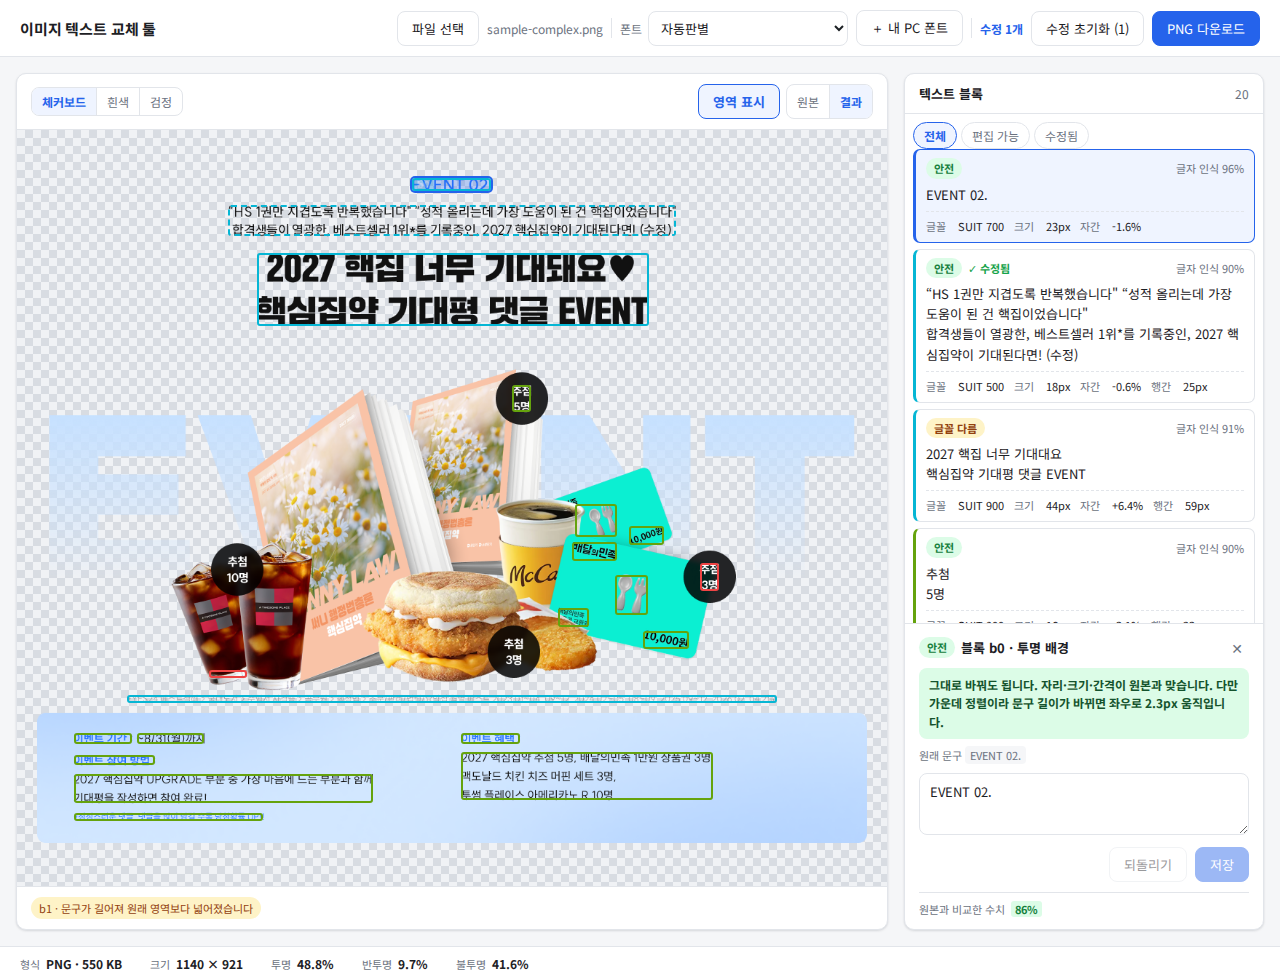
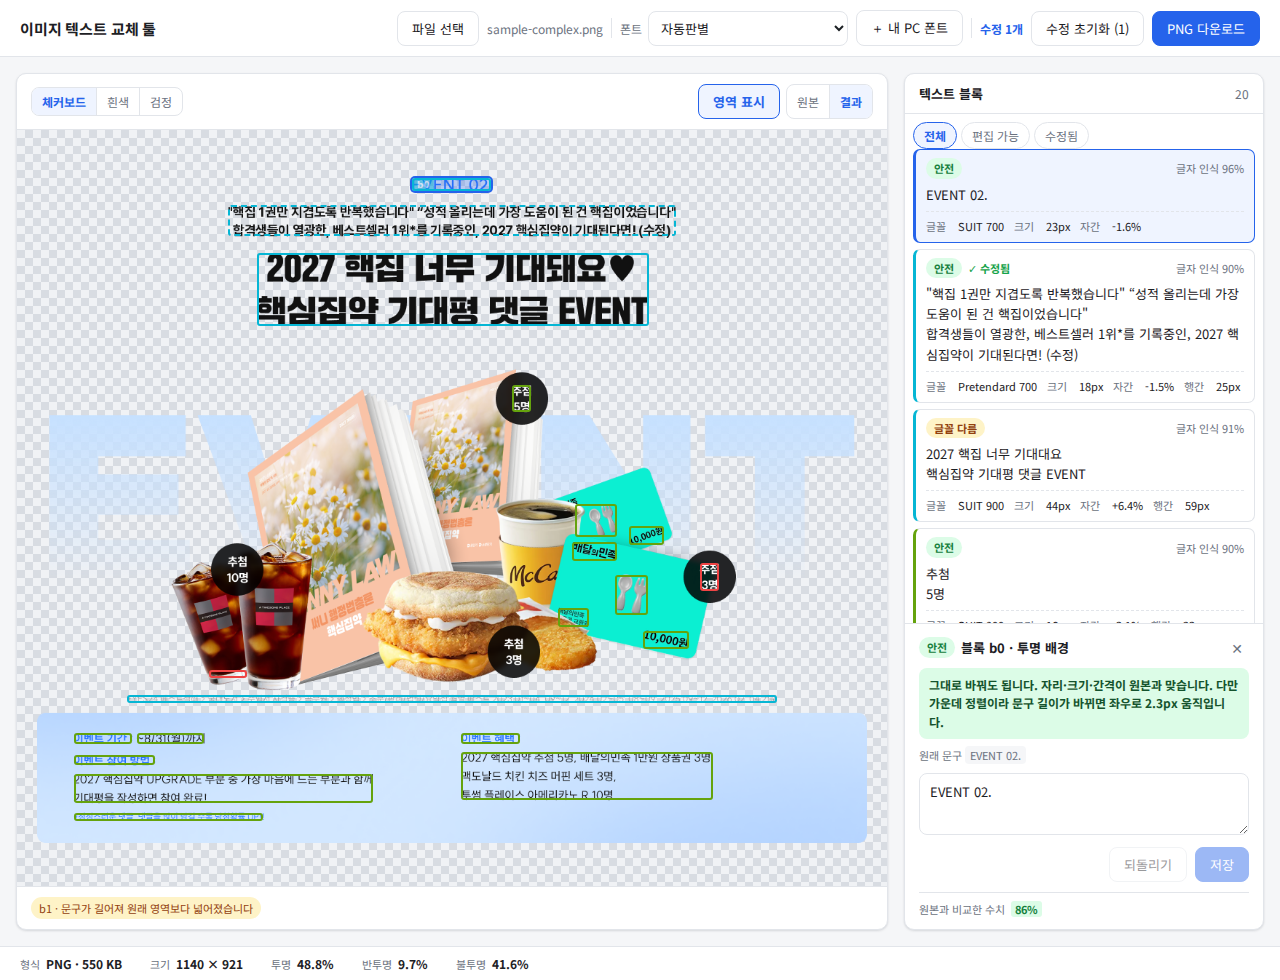
feat: OCR 인식률 — 한글↔라틴 교정, 그림 블록 걸러내기
제보 둘: 포크·수저 아이콘을 글자로 읽어 쓰레기를 뱉는다 / `핵집` 을 `HS` 로
읽는다. 정답을 손으로 적어 두고(11블록) 글자 단위 정확도로 재며 실험했다.

먼저 안 되는 것을 확인했다
- 전처리는 현재가 최적. 96px 94.6%, 128px 96.3%, 이진화 96.3~96.5% 로 전부
  현재(97.3%)보다 나빴다. 그래서 전처리는 건드리지 않았다
- kor 단독은 한글을 맞히지만 영문을 다 깨뜨린다 (EVENT→ㄷ66411)
- 낱말 신뢰도로 고르는 것도 안 된다. 정답 `핵` 이 21%, 오답 `“HS` 가 62% 다.
  신뢰도가 정답 쪽을 가리키지 않는다

되는 것 (js/ocr.js)
- 한글이 섞인 블록에서 유독 신뢰도가 낮은 라틴 낱말만 골라, 같은 자리를 kor
  단독으로 읽어 **완성형 한글이 나올 때만** 갈아끼운다. 이 두 번째 조건이
  핵심이다 — 정답인 `UP!`(신뢰도 16)은 kor 이 `1ㅁ!!` 를 내놓아 걸러진다
- 겹침은 '한국어 낱말이 의심 구간 안에 드는가'로 본다. 의심 낱말 폭 기준이면
  `“HS` 자리에서 `핵` 만 잡히고 `집` 이 빠진다
- 낱말을 다시 잇지 않고 원문에서 그 낱말만 치환한다. 이으면 띄어쓰기가 깨진다

  b1  “HS 1권만…        → “핵집 1권만…
  b18 2027 BYU UPGRADE… → 2027 핵심집약 UPGRADE… (100%)
  평균 97.3% → 98.3% · OCR 3.2s → 4.8s

그림 걸러내기 (js/ocr.js, js/app.js)
- 획 굵기 분포(가로 런 90분위/중앙값)를 잰다. 글자는 가는 세로획과 긴 가로획이
  섞여 비가 크고, 아이콘은 통짜라 작다. 실측 아이콘 1.7·1.8 vs 글자 2.3~4.3
- 신뢰도 낮고 한글 없음 / 획 비 낮고 신뢰도 낮음 → `글자 아님` 표시,
  '편집 가능' 목록에서 제외. 지우지는 않는다
- 쓰레기 5블록을 다 잡고 진짜 글자는 하나도 안 잡는다

검증: typo-probe 33항목(OCR 4항목 신설), compose 18, edit 32 전부 통과.

Claude-Session: https://claude.ai/code/session_018kgwYgKVhZt5kDDopb9ULA

Changed region(s): [[0.1875, 0.1837, 0.5312, 0.2449], [0.7188, 0.2755, 0.9688, 0.3061], [0.75, 0.3673, 0.9688, 0.398]]

diff --git a/js/ocr.js b/js/ocr.js
@@ -38,7 +38,9 @@ const OCR = (() => {
    * 배경 유형과 무관하게 '흰 바탕에 검은 글자'로 정규화한다.
    * 투명 PNG를 그대로 넣으면 투명 픽셀이 검정으로 읽혀 흰 글자가 사라진다.
    */
-  function preprocess(img, block) {
+  function preprocess(img, block, opts = {}) {
+    const targetH = opts.targetH || TARGET_H;
+    const binarize = !!opts.binarize;
     const {x0, y0, x1, y1} = block.bbox;
     const bw = x1 - x0, bh = y1 - y0;
     const d = img.data, W = img.width;
@@ -72,7 +74,7 @@ const OCR = (() => {
     const lineH = block.lines.length
       ? block.lines.reduce((s, l) => s + (l.bbox.y1 - l.bbox.y0), 0) / block.lines.length
       : bh;
-    const scale = Math.min(MAX_SCALE, Math.max(1, TARGET_H / lineH));
+    const scale = Math.min(MAX_SCALE, Math.max(1, targetH / lineH));
 
     const src = document.createElement('canvas');
     src.width = bw; src.height = bh;
@@ -86,7 +88,147 @@ const OCR = (() => {
     ctx.fillRect(0, 0, out.width, out.height);
     ctx.imageSmoothingQuality = 'high';
     ctx.drawImage(src, PAD, PAD, Math.round(bw * scale), Math.round(bh * scale));
+
+    // 확대하면 글자 가장자리가 회색으로 번진다. 이진화하면 경계가 또렷해지지만
+    // 가는 획이 끊길 수 있다. 어느 쪽이 나은지는 실측으로 정한다(부록 P).
+    if (binarize) {
+      const im = ctx.getImageData(0, 0, out.width, out.height);
+      const q = im.data;
+      let sum = 0, n = 0;
+      for (let i = 0; i < q.length; i += 4) { sum += q[i]; n++; }
+      const t = sum / n;                       // 평균 밝기를 문턱으로
+      for (let i = 0; i < q.length; i += 4) {
+        const v = q[i] < t ? 0 : 255;
+        q[i] = q[i + 1] = q[i + 2] = v;
+      }
+      ctx.putImageData(im, 0, 0);
+    }
     return out;
+  }
+
+  /* ---------- 한글↔라틴 혼동 교정 (v1.8) ----------
+   *
+   * `kor+eng` 는 한글을 라틴 글자로 잘못 읽는 일이 잦다. 실측(샘플 B):
+   *   핵집 → “HS,  핵심집약 → BYU
+   * `kor` 단독으로 읽으면 둘 다 맞는다. 그런데 `kor` 단독을 기본으로 삼을 수는
+   * 없다 — `EVENT` → `ㄷ66411`, `UPGRADE` → `1『<ㅅ^` 로 영문이 전부 깨진다.
+   *
+   * 낱말 신뢰도로 고르는 것도 안 된다. 정답인 `핵`이 21%, 오답인 `“HS`가 62% 로
+   * **신뢰도가 정답 쪽을 가리키지 않는다.**
+   *
+   * 두 가지를 함께 본다.
+   *   1. 한글이 섞인 블록에서, 그 라틴 낱말만 유독 신뢰도가 낮은가
+   *   2. 같은 자리를 한국어 전용으로 읽었을 때 **완성형 한글**이 나오는가
+   *
+   * 2가 핵심이다. 실측에서 정답인 `UP!`(신뢰도 16)도 1에는 걸리지만, 한국어
+   * 전용이 내놓는 것이 `1ㅁ!!` 라 완성형 한글이 아니어서 걸러진다. 반대로
+   * `“HS`·`BYU` 는 `“핵집`·`핵심집약` 이 나와 갈아탄다.
+   */
+  const HANGUL = /[가-힣]/;
+  const CONF_DROP = 20;   // 한글 낱말 중앙값보다 이만큼 낮으면 의심한다
+  const MIN_HANGUL_PCT = 30;
+
+  let korWorker = null;
+  async function korOnly() {
+    if (korWorker) return korWorker;
+    korWorker = await Tesseract.createWorker(['kor'], 1, {
+      workerPath: BASE + 'worker.min.js', corePath: BASE,
+      langPath: BASE + 'lang', gzip: false,
+    });
+    await korWorker.setParameters({
+      tessedit_pageseg_mode: '6', preserve_interword_spaces: '1',
+    });
+    return korWorker;
+  }
+
+  /** 인식 결과에서 줄 구조를 유지한 채 낱말을 꺼낸다. */
+  function linesOf(data) {
+    const out = [];
+    const dig = (o) => {
+      if (!o) return;
+      if (Array.isArray(o.words) && o.words.length) {
+        const ws = o.words.filter((x) => (x.text || '').trim()).map((x) => ({
+          t: x.text.trim(), c: x.confidence,
+          x0: x.bbox.x0, x1: x.bbox.x1, y0: x.bbox.y0, y1: x.bbox.y1,
+        }));
+        if (ws.length) out.push(ws);
+      }
+      for (const k of ['blocks', 'paragraphs', 'lines']) {
+        if (Array.isArray(o[k])) o[k].forEach(dig);
+      }
+    };
+    (data.blocks || []).forEach(dig);
+    return out;
+  }
+
+  const median = (a) => a.length ? [...a].sort((x, y) => x - y)[a.length >> 1] : null;
+
+  /**
+   * 획 굵기 분포 — 글자인지 그림인지 가르는 단서.
+   *
+   * 글자는 가는 세로획과 긴 가로획이 섞여 있어 가로 런 길이의 90분위가 중앙값의
+   * 여러 배다. 포크·수저 같은 아이콘은 통짜라 런 길이가 고르다.
+   * 실측(샘플 B): 아이콘 1.7·1.8 vs 글자 2.3~4.3.
+   */
+  function strokeRatio(canvas) {
+    const g = canvas.getContext('2d', {willReadFrequently: true});
+    const d = g.getImageData(0, 0, canvas.width, canvas.height).data;
+    const W = canvas.width, H = canvas.height;
+    const runs = [];
+    for (let y = 0; y < H; y++) {
+      let n = 0;
+      for (let x = 0; x < W; x++) {
+        if (d[(y * W + x) * 4] < 128) n++;
+        else { if (n) runs.push(n); n = 0; }
+      }
+      if (n) runs.push(n);
+    }
+    if (runs.length < 8) return null;
+    runs.sort((a, b) => a - b);
+    const med = runs[runs.length >> 1] || 1;
+    return runs[Math.floor(runs.length * 0.9)] / med;
+  }
+
+  /**
+   * 라틴으로 잘못 읽힌 한글 낱말을 한국어 전용 결과로 갈아끼운다.
+   * @returns {text, fixed[]} — 고친 낱말 목록(검증용)
+   */
+  async function fixLatin(canvas, lines) {
+    const all = lines.flat();
+    const joined = all.map((w) => w.t).join('');
+    const chars = joined.replace(/\s/g, '').length;
+    if (!chars) return null;
+    const hangulPct = (joined.match(/[가-힣]/g) || []).length / chars * 100;
+    if (hangulPct < MIN_HANGUL_PCT) return null;      // 영문 블록은 건드리지 않는다
+
+    const med = median(all.filter((w) => HANGUL.test(w.t)).map((w) => w.c));
+    if (med === null) return null;
+    const suspect = all.filter((w) =>
+      /[A-Za-z]/.test(w.t) && !HANGUL.test(w.t) && w.c < med - CONF_DROP);
+    if (!suspect.length) return null;
+
+    const w = await korOnly();
+    const kr = await w.recognize(canvas, {}, {blocks: true, text: true});
+    const kw = linesOf(kr.data).flat();
+
+    // 낱말을 다시 이어 붙이면 띄어쓰기가 깨진다. 한국어는 한 음절이 한 낱말로
+    // 잘리는 일이 흔해, 낱말 사이를 공백으로 메우면 `핵 1 권 만` 이 된다.
+    // 그래서 **원문 문자열에서 그 낱말만 바꿔 끼운다.**
+    const fixed = [];
+    for (const a of suspect) {
+      // '한국어 낱말이 의심 구간 안에 들어오는가' 로 본다. 의심 낱말 폭의 절반을
+      // 기준으로 삼으면 `“HS` 자리에서 `핵` 하나만 잡히고 `집` 이 빠진다 — 한국어
+      // 쪽은 한 음절씩 잘리는 일이 흔해 낱말 하나하나가 훨씬 짧기 때문이다.
+      const ov = kw.filter((z) =>
+        Math.min(a.x1, z.x1) - Math.max(a.x0, z.x0) > (z.x1 - z.x0) * 0.5 &&
+        Math.min(a.y1, z.y1) - Math.max(a.y0, z.y0) > (z.y1 - z.y0) * 0.5);
+      if (!ov.length) continue;
+      const t = ov.sort((m, n) => m.x0 - n.x0).map((z) => z.t).join('');
+      // 완성형 한글이 나올 때만 믿는다. 낱자모(ㅁ)·기호만 나오면 그냥 노이즈다.
+      if (!HANGUL.test(t) || t === a.t) continue;
+      fixed.push({from: a.t, to: t});
+    }
+    return fixed.length ? {fixed} : null;
   }
 
   /** 블록 하나를 인식한다. 실패하면 빈 문자열을 돌려주고 예외를 던지지 않는다. */
@@ -97,9 +239,21 @@ const OCR = (() => {
       preserve_interword_spaces: '1',
     });
     try {
-      const {data} = await worker.recognize(canvas);
+      const {data} = await worker.recognize(canvas, {}, {blocks: true, text: true});
       const text = (data.text || '').replace(/\s*\n\s*/g, '\n').trim();
-      return {text, confidence: data.confidence ?? 0};
+      let fix = null;
+      try { fix = await fixLatin(canvas, linesOf(data)); }
+      catch (e) { /* 교정은 보조다. 실패해도 1차 결과를 쓴다 */ }
+      let out = text;
+      for (const f of (fix ? fix.fixed : [])) {
+        const i = out.indexOf(f.from);
+        if (i >= 0) out = out.slice(0, i) + f.to + out.slice(i + f.from.length);
+      }
+      return {
+        text: out, confidence: data.confidence ?? 0,
+        strokeRatio: strokeRatio(canvas),
+        fixedWords: (fix ? fix.fixed : []).map((f) => `${f.from} → ${f.to}`),
+      };
     } catch (e) {
       return {text: '', confidence: 0, error: String(e)};
     }
@@ -107,6 +261,7 @@ const OCR = (() => {
 
   async function terminate() {
     if (worker) { await worker.terminate(); worker = null; booting = null; }
+    if (korWorker) { await korWorker.terminate(); korWorker = null; }
   }
 
   // 검증 도구가 PSM 을 바꿔 가며 비교할 수 있게 원시 인식도 노출한다.

diff --git a/js/app.js b/js/app.js
@@ -154,6 +154,8 @@ async function runAnalysis() {
       b.draft = r.text;           // 편집 중인 값
       b.dirty = false;
       b.confidence = r.confidence;
+      b.fixedWords = r.fixedWords || [];
+      b.strokeRatio = r.strokeRatio;
       if (b.id === state.selectedId) renderEditor();
       renderBlockList();
     }
@@ -297,7 +299,9 @@ function renderBlockList() {
 const byId = (id) => state.blocks.find((b) => b.id === id);
 const isUnsaved = (b) => (b.draft ?? '') !== (b.editedText ?? '');
 const visibleBlocks = () => state.blocks.filter((b) => {
-  if (state.filter === 'editable') return !b.locked;
+  // '편집 가능'에서는 그림으로 보이는 블록도 뺀다. 목록을 훑는 목적이
+  // '고칠 것 찾기'이므로 고칠 게 아닌 것은 빠져야 한다.
+  if (state.filter === 'editable') return !b.locked && !looksNotText(b);
   if (state.filter === 'dirty') return b.dirty || isUnsaved(b);
   return true;
 });
@@ -580,10 +584,33 @@ const fmtTrack = (t) => `${t.pct >= 0 ? '+' : ''}${t.pct.toFixed(1)}%`;
  * 뒤로 뺀다. 판정 기준은 계측 항목 중 **고칠 수 없는 것**을 먼저 본다:
  * 자리·크기·간격이 어긋나면 어떤 폰트를 골라도 티가 난다.
  */
+/**
+ * 글자가 아니라 그림일 가능성이 높은가.
+ *
+ * 단색 패치(선물카드·배지) 안의 포크·수저 아이콘이 '배경이 아닌 픽셀'이라 글자로
+ * 검출되고, OCR 은 거기서 `ff`·`has.` 같은 쓰레기를 뱉는다. 두 갈래로 거른다.
+ *   1. 신뢰도가 낮고 한글이 하나도 없다 (`ont`·`ff`·`has.`)
+ *   2. 획 굵기가 고르다 — 그림의 특징 (`소년` 으로 읽힌 포크 모양)
+ * 실측(샘플 B): 이 규칙이 쓰레기 5블록을 다 잡고 진짜 글자는 하나도 안 잡는다.
+ */
+const NOTEXT_CONF = 55, NOTEXT_STROKE = 2.0, NOTEXT_STROKE_CONF = 70;
+function looksNotText(b) {
+  if (typeof b.confidence !== 'number' || !('originalText' in b)) return false;
+  const t = b.originalText || '';
+  const hangul = (t.match(/[가-힣]/g) || []).length;
+  if (b.confidence < NOTEXT_CONF && hangul === 0 && t.replace(/\s/g, '').length <= 12) return true;
+  return typeof b.strokeRatio === 'number'
+    && b.strokeRatio < NOTEXT_STROKE && b.confidence < NOTEXT_STROKE_CONF;
+}
+
 function safety(b) {
   if (b.locked) {
     return {key: 'locked', label: '편집 불가', cls: 'bad',
             text: '배경이 복잡해 이 블록은 바꿀 수 없습니다.'};
+  }
+  if (looksNotText(b)) {
+    return {key: 'notext', label: '글자 아님', cls: 'dimchip',
+            text: '글자가 아니라 그림일 가능성이 높습니다. 읽어낸 문구가 뜻이 없다면 그냥 두세요.'};
   }
   const m = typoFor(b);
   if (!m) return {key: 'wait', label: '대기', cls: 'dimchip', text: ''};
@@ -949,5 +976,5 @@ document.addEventListener('keydown', (e) => {
   }
 });
 
-window.__app = {state, loadFile, runAnalysis, selectBlock, saveBlock, revertBlock,
+window.__app = {state, loadFile, runAnalysis, selectBlock, saveBlock, revertBlock, looksNotText,
                 runCompose, showResult, fontFor, download, outputName};

diff --git a/tools/typo-probe.js b/tools/typo-probe.js
@@ -142,6 +142,36 @@ const check = (name, ok, detail = '') => {
     centers.every((d) => d.reported >= 0.05),
     centers.map((d) => `${d.id} ${d.reported.toFixed(1)}px`).join(' ') || '가운데 블록 없음');
 
+  // ---- OCR 교정 (v1.8) ----
+  console.log('\n[한글↔라틴 교정 · 그림 걸러내기]');
+  await page.goto(`http://127.0.0.1:${PORT}/index.html`);
+  await page.setInputFiles('#fileInput', path.join(ROOT, 'assets/sample-complex.png'));
+  await page.waitForFunction(() => window.__app.state.imageData && !window.__app.state.analyzing,
+    null, {timeout: 300000});
+  const ocr = await page.evaluate(() => ({
+    fixed: window.__app.state.blocks.flatMap((b) => (b.fixedWords || []).map((f) => `${b.id} ${f}`)),
+    notext: window.__app.state.blocks.filter((b) => window.__app.looksNotText(b)).map((b) => b.id),
+    texts: Object.fromEntries(window.__app.state.blocks.map((b) => [b.id, b.originalText || ''])),
+  }));
+  console.log(`  교정: ${ocr.fixed.join('  |  ') || '없음'}`);
+  console.log(`  그림으로 판정: ${ocr.notext.join(' ') || '없음'}`);
+
+  // kor+eng 는 한글을 라틴으로 읽는 일이 잦다. 실측: 핵집→“HS, 핵심집약→BYU
+  check('한글이 라틴으로 잘못 읽힌 것을 고친다',
+    /핵집/.test(ocr.texts.b1) && /핵심집약/.test(ocr.texts.b18),
+    `b1 "${ocr.texts.b1.slice(0, 8)}" · b18 "${ocr.texts.b18.slice(0, 12)}"`);
+  // 진짜 영문은 건드리면 안 된다
+  check('진짜 영문은 그대로 둔다',
+    /EVENT/.test(ocr.texts.b0) && /UPGRADE/.test(ocr.texts.b18) && /UP!/.test(ocr.texts.b19),
+    `${ocr.texts.b0} / UPGRADE ${/UPGRADE/.test(ocr.texts.b18)} / UP! ${/UP!/.test(ocr.texts.b19)}`);
+  // 선물카드의 포크·수저 아이콘이 글자로 검출돼 쓰레기를 뱉는다
+  check('그림 블록 5개를 다 걸러낸다',
+    ['b4', 'b5', 'b6', 'b8', 'b9'].every((id) => ocr.notext.includes(id)),
+    ocr.notext.join(' '));
+  check('진짜 글자를 그림으로 오인하지 않는다',
+    !['b0', 'b1', 'b2', 'b3', 'b13', 'b14', 'b16', 'b18', 'b19']
+      .some((id) => ocr.notext.includes(id)), ocr.notext.join(' '));
+
   // ---- 계측과 합성이 같은 값을 쓰는가 ----
   console.log('\n[계측 = 합성]');
   const same = await page.evaluate(() => {
@@ -207,7 +237,7 @@ const check = (name, ok, detail = '') => {
   for (const c of chips) console.log(`  ${c.id.padEnd(4)} ${c.chip}`);
   check('모든 블록에 판정이 붙는다', chips.every((c) => c.chip), JSON.stringify(chips));
   check('판정은 정해진 말만 쓴다',
-    chips.every((c) => ['안전', '글꼴 다름', '문구 확인', '위험', '편집 불가', '대기'].includes(c.chip)),
+    chips.every((c) => ['안전', '글꼴 다름', '문구 확인', '위험', '편집 불가', '글자 아님', '대기'].includes(c.chip)),
     [...new Set(chips.map((c) => c.chip))].join(' / '));
   check('유형 문자(A/B/C)를 그대로 보여 주지 않는다',
     !chips.some((c) => /^[ABC]$/.test(c.chip)));

diff --git a/tools/edit-probe.js b/tools/edit-probe.js
@@ -87,9 +87,11 @@ function check(name, ok, detail = '') {
   check('수정됨 필터가 1개만 남긴다', s.shownItems === 1, `${s.shownItems}/${total}`);
   await page.click('#filterBar button[data-filter="editable"]');
   s = await snap();
-  const locked = await page.evaluate(() => window.__app.state.blocks.filter((b) => b.locked).length);
-  check('편집 가능 필터가 잠긴 블록을 뺀다', s.shownItems === total - locked,
-    `${s.shownItems} = ${total} - ${locked}`);
+  // 고칠 게 아닌 것은 다 빠져야 한다 — 잠긴 블록과 '그림으로 보이는' 블록.
+  const out = await page.evaluate(() => window.__app.state.blocks
+    .filter((b) => b.locked || window.__app.looksNotText(b)).length);
+  check('편집 가능 필터가 잠긴 블록·그림 블록을 뺀다', s.shownItems === total - out,
+    `${s.shownItems} = ${total} - ${out}`);
   await page.click('#filterBar button[data-filter="all"]');
 
   console.log('\n[선택 토글]');
